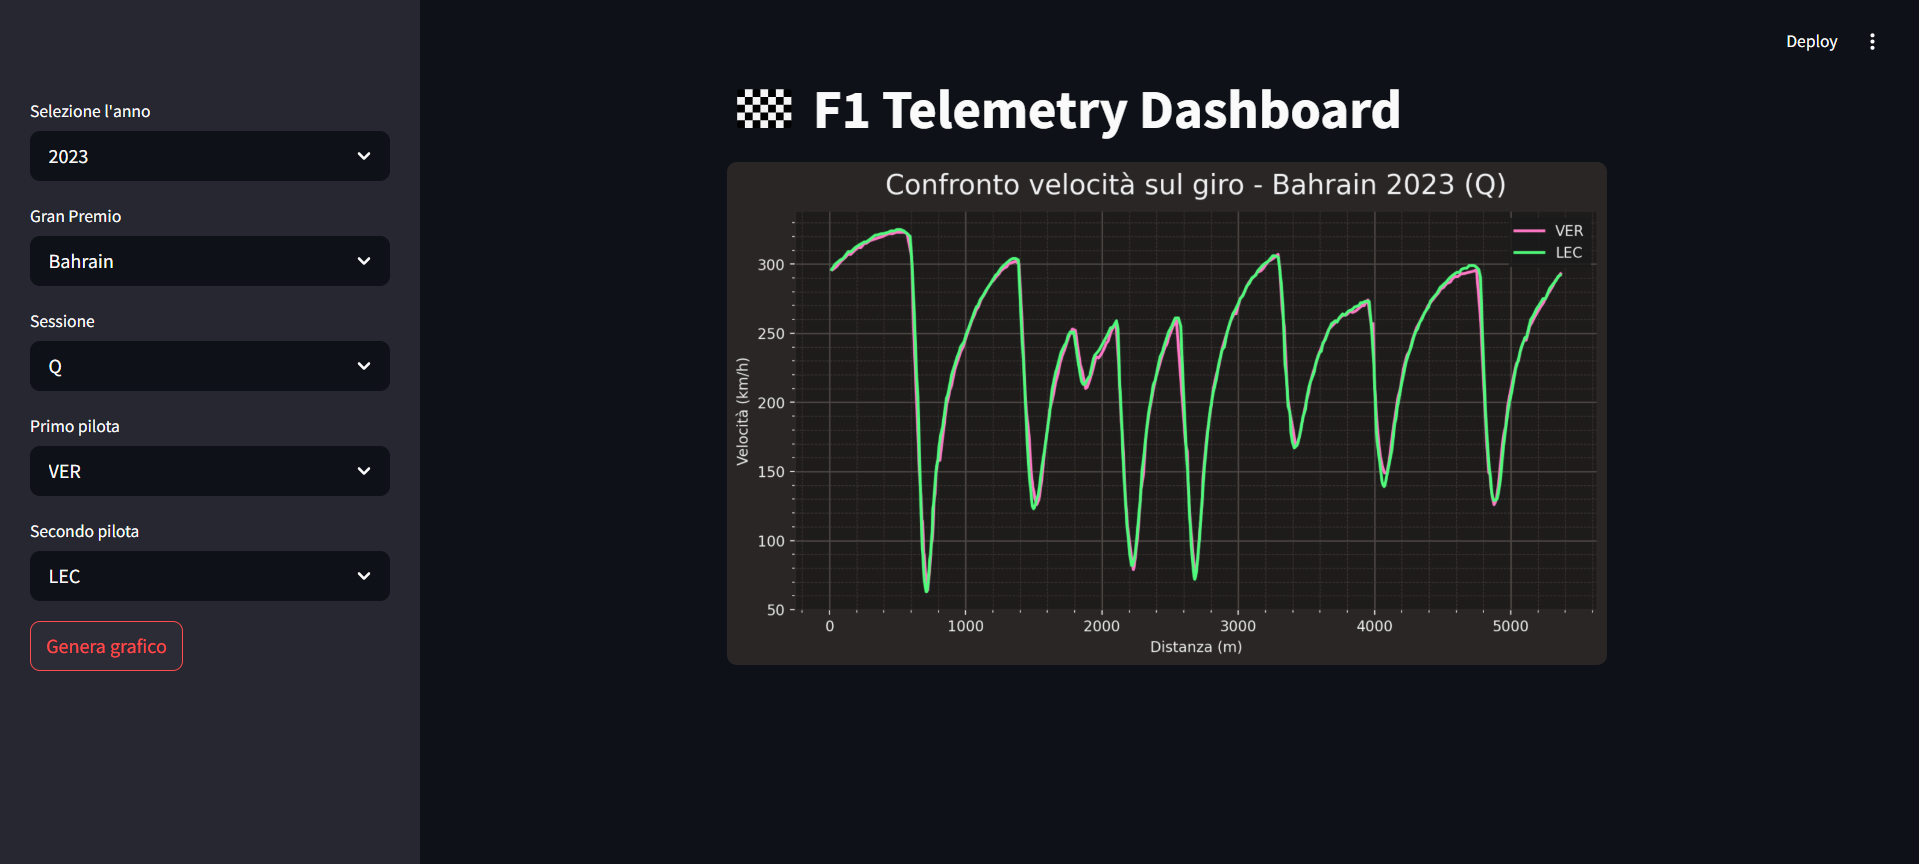
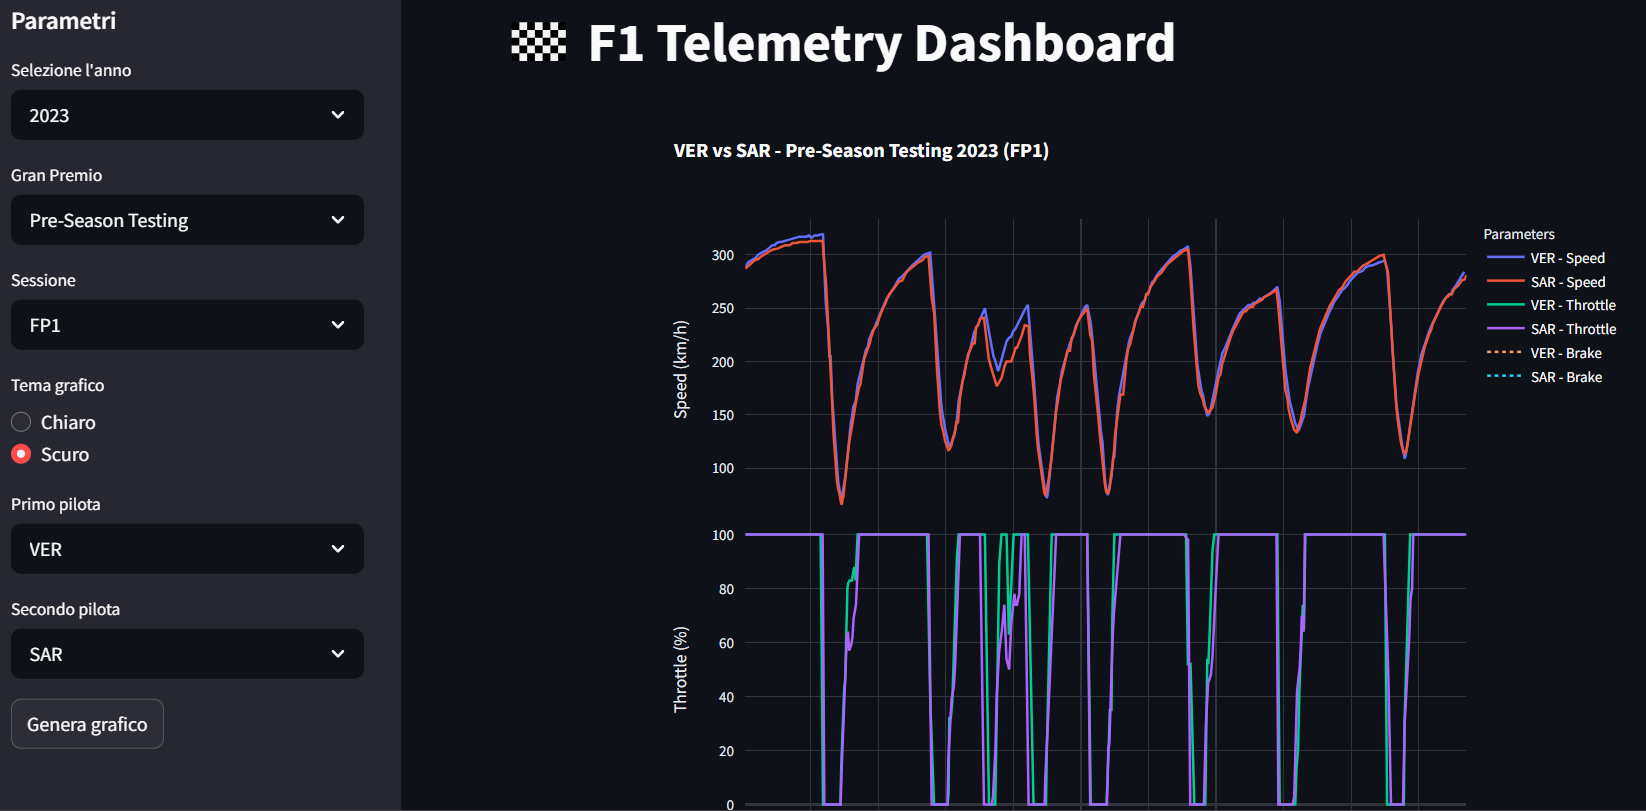
Aggiornato README.md

diff --git a/README.md b/README.md
@@ -2,18 +2,23 @@
 
 Un'app interattiva per confrontare la telemetria di due piloti di Formula 1 sul giro più veloce, basata sui dati ufficiali forniti da [FastF1](https://theoehrly.github.io/Fast-F1/).
 
-## 📸 Screenshot
+## 📸 Anteprima
 
-![Screenshot della dashboard](/images/screenshot-dashboard.png)
+![Screenshot della Dashboard](images/screenshot-dashboard.png)
 
 ## ⚙ Funzionalità
 
-- Selezione di anno, circuito e sessione (prove libere, qualifiche, gara)
-- Scelta di due piloti da confrontare
-- Grafico interattivo della velocità sul giro più veloce
-- Visualizzazione della distanza percorsa e confronto diretto tra linee di gara
+- Selezione anno, circuito e sessione (prove libere, qualifiche, gara)
+- Scelta dinamica dei piloti disponibili
+- Grafici interattivi sincronizzati:
+  - Velocità
+  - Throttle (acceleratore)
+  - Brake (frenata)
+- Griglia su asse X (distanza) per migliorare il confronto
+- Tema chiaro/scuro selezionabile
+- Responsive e usabile da desktop e mobile
 
-## 🚀 Come eseguirlo
+## 🚀 Come eseguirlo localmente
 
 ### 1. Clona il progetto
 
@@ -24,7 +29,7 @@ cd f1-telemetry-dashboard
 
 ### 2. Installa le dipendenze
 
-Consigliato: crea un virtual environment prima.
+Si consiglia l'uso di un virtual environment.
 
 ```bash
 pip install -r requirements.txt
